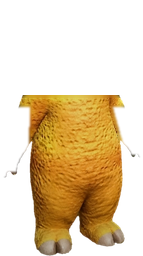
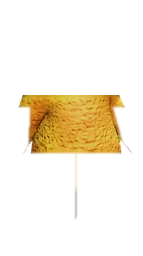
feat(web): 桌宠走路迈步 + 拖拽挣扎/放下松气——拆出双腿图层
- 素材：胯中线竖切拆出左右腿图层（正面像双腿粘连，直接对半切，
  静止时像素一致无缝）；主体 inpaint 阈值收窄到 alpha<=32，
  羽化缝保留原始 RGB，消除接缝模糊线；抽帧校验加腿部 ±12°
- 走路：双腿交替迈步（绕髋枢轴旋转 + 抬腿）+ 双臂反相摆动
  （异侧手脚同步）+ 身体重心摇摆 + 头颠簸，步速放缓匹配迈步节拍
- 拖拽：拎起时四肢扑腾 + 头甩动 + 整体扭动挣扎（pet-struggle）；
  放下时播放松了一口气落地一瘫再恢复的 WAAPI 动画
- Playwright 实测：拖拽中 7 个挣扎动画并跑，放下恰好 1 次 relief

diff --git a/apps/web/src/components/pet/pet.css b/apps/web/src/components/pet/pet.css
@@ -229,11 +229,25 @@
   55% { transform: rotate(7deg) translateY(3%); }
 }
 
-/* 走动（外壳 .pet-walking）：双臂反相摆动 + 头颠簸 + 身体前倾 */
+/* 走动（外壳 .pet-walking）：双腿交替迈步 + 双臂反相摆动（异侧手脚同步的自然步态）
+   + 头颠簸 + 身体重心摇摆 */
+.pet-walking .niulai .n-leg-l { animation: n-leg-step 0.5s ease-in-out -0.25s infinite; }
+.pet-walking .niulai .n-leg-r { animation: n-leg-step 0.5s ease-in-out infinite; }
 .pet-walking .niulai .n-arm-l { animation: n-arm-swing 0.5s ease-in-out infinite; }
 .pet-walking .niulai .n-arm-r { animation: n-arm-swing 0.5s ease-in-out -0.25s infinite; }
 .pet-walking .niulai .n-head { animation: n-walk-head 0.5s ease-in-out infinite; }
-.pet-walking .niulai .n-body { transform: rotate(1.5deg); transform-origin: 50% 100%; }
+.pet-walking .niulai .n-body {
+  transform-origin: 50% 100%;
+  animation: n-walk-body 0.5s ease-in-out infinite;
+}
+@keyframes n-leg-step {
+  0%, 100% { transform: rotate(9deg) translateY(-1.5%); }
+  50% { transform: rotate(-7deg); }
+}
+@keyframes n-walk-body {
+  0%, 100% { transform: rotate(-2deg); }
+  50% { transform: rotate(2deg); }
+}
 @keyframes n-arm-swing {
   0%, 100% { transform: rotate(13deg); }
   50% { transform: rotate(-13deg); }
@@ -241,6 +255,21 @@
 @keyframes n-walk-head {
   0%, 100% { transform: rotate(0deg) translateY(0); }
   50% { transform: rotate(1.5deg) translateY(-1.5%); }
+}
+
+/* 被拖拽拎起（外壳 .pet-dragging）：挣扎——四肢扑腾 + 头甩动 */
+.pet-dragging .niulai .n-leg-l { animation: n-kick 0.3s ease-in-out infinite; }
+.pet-dragging .niulai .n-leg-r { animation: n-kick 0.3s ease-in-out -0.15s infinite; }
+.pet-dragging .niulai .n-arm-l { animation: n-flail 0.3s ease-in-out infinite; }
+.pet-dragging .niulai .n-arm-r { animation: n-flail 0.3s ease-in-out -0.15s infinite; }
+.pet-dragging .niulai .n-head { animation: n-wobble 0.4s ease-in-out infinite; }
+@keyframes n-kick {
+  0%, 100% { transform: rotate(14deg) translateY(-2%); }
+  50% { transform: rotate(-11deg); }
+}
+@keyframes n-flail {
+  0%, 100% { transform: rotate(-22deg); }
+  50% { transform: rotate(14deg); }
 }
 
 /* 瞌睡（外壳 .pet-sleeping）：头低垂（盖过 idle 的头轻摆） */
@@ -319,12 +348,17 @@
   transition: transform 0.18s ease-out, filter 0.4s ease;
 }
 
-/* 拖拽中（DRAG 最高优先级）：轻轻拎起 */
+/* 拖拽中（DRAG 最高优先级）：拎起 + 扭动挣扎 */
 .pet-dragging .pet-stage {
-  transform: scale(1.06) rotate(2deg);
+  animation: pet-struggle 0.45s ease-in-out infinite;
+  transition: none;
+}
+@keyframes pet-struggle {
+  0%, 100% { transform: scale(1.05) rotate(3.5deg); }
+  50% { transform: scale(1.05) rotate(-3.5deg); }
 }
 
-/* 走动（WALK）：上下颠簸 + 左右摇摆；左走时立绘水平翻转 */
+/* 走动（WALK）：轻微起伏（迈步动作在腿部图层上）；左走时立绘水平翻转 */
 .pet-walking .pet-stage {
   animation: pet-walk-bob 0.5s ease-in-out infinite;
   transition: none;
@@ -333,12 +367,12 @@
   animation-name: pet-walk-bob-flip;
 }
 @keyframes pet-walk-bob {
-  0%, 100% { transform: translateY(0) rotate(-2.5deg); }
-  50% { transform: translateY(-5%) rotate(2.5deg); }
+  0%, 100% { transform: translateY(0) rotate(-1.5deg); }
+  50% { transform: translateY(-3%) rotate(1.5deg); }
 }
 @keyframes pet-walk-bob-flip {
-  0%, 100% { transform: scaleX(-1) translateY(0) rotate(-2.5deg); }
-  50% { transform: scaleX(-1) translateY(-5%) rotate(2.5deg); }
+  0%, 100% { transform: scaleX(-1) translateY(0) rotate(-1.5deg); }
+  50% { transform: scaleX(-1) translateY(-3%) rotate(1.5deg); }
 }
 
 /* 瞌睡（SLEEP：60s 无交互进入，点击唤醒）：低垂褪色 + Zzz */
@@ -372,7 +406,9 @@
 
 @media (prefers-reduced-motion: reduce) {
   .niulai-anim *, .niulai-anim .n-layer { animation: none !important; }
-  .pet-walking .niulai .n-layer { animation: none !important; }
+  .pet-walking .niulai .n-layer,
+  .pet-dragging .niulai .n-layer { animation: none !important; }
   .pet-walking .pet-stage { animation: none !important; }
+  .pet-dragging .pet-stage { animation: none !important; transform: scale(1.05); }
   .pet-zzz i { animation: none; opacity: 0.75; }
 }

diff --git a/apps/web/src/components/pet/NiulaiAvatar.tsx b/apps/web/src/components/pet/NiulaiAvatar.tsx
@@ -3,6 +3,8 @@ import armLUrl from './assets/niulai-armL.png'
 import armRUrl from './assets/niulai-armR.png'
 import bodyUrl from './assets/niulai-body.png'
 import headUrl from './assets/niulai-head.png'
+import legLUrl from './assets/niulai-legL.png'
+import legRUrl from './assets/niulai-legR.png'
 import { NIULAI_PUPPET } from './assets/niulai_puppet_meta'
 import type { PetState } from './PetAvatar'
 import { PET_STATE_LABEL } from './PetAvatar'
@@ -18,16 +20,17 @@ function pivotStyle(pivot: Pivot | null): React.CSSProperties {
 }
 
 /**
- * 牛来桌宠：分层木偶（身体/双臂/头四个透明图层叠加）+ CSS 程序化动画。
+ * 牛来桌宠：分层木偶（身体/双腿/双臂/头六个透明图层叠加）+ CSS 程序化动画。
  * 图层与枢轴由 scripts/build_pet_puppet.py 从整图立绘自动拆出；
- * 每层独立 transform（歪头、摆臂、垂臂），比整图晃动精细。神态语义与铅笔小猫一致：
+ * 每层独立 transform（歪头、摆臂、迈步），比整图晃动精细。神态语义与铅笔小猫一致：
  * - idle      呼吸 + 头轻摆 + 双臂微晃
  * - thinking  歪头 + 思绪气泡
  * - working   身体摇摆 + 双臂交替摆动 + 头点动
  * - confused  头部快速摇摆 + ?
  * - eureka    整体弹跳 + 头后仰 + 双臂举起 + 闪光
  * - sad       垂头 + 双臂下垂 + 褪色 + 泪滴
- * 走动时（外壳 .pet-walking）双臂反相摆动、头部颠簸；瞌睡时（.pet-sleeping）头低垂。
+ * 走动时（外壳 .pet-walking）双腿交替迈步、双臂反相摆动（异侧手脚同步的自然步态）；
+ * 拖拽时（.pet-dragging）四肢扑腾挣扎；瞌睡时（.pet-sleeping）头低垂。
  */
 export function NiulaiAvatar({
   state,
@@ -50,9 +53,11 @@ export function NiulaiAvatar({
       role="img"
       aria-label={`牛来桌宠：${PET_STATE_LABEL[state]}`}
     >
-      {/* key=state：换神态重挂，动画从头播放。叠层顺序：身体 → 双臂 → 头 */}
+      {/* key=state：换神态重挂，动画从头播放。叠层顺序：身体 → 双腿 → 双臂 → 头 */}
       <span key={state} className="n-rig">
         <img className="n-layer n-body" src={bodyUrl} {...layerProps} />
+        <img className="n-layer n-leg-l" src={legLUrl} style={pivotStyle(NIULAI_PUPPET.legL)} {...layerProps} />
+        <img className="n-layer n-leg-r" src={legRUrl} style={pivotStyle(NIULAI_PUPPET.legR)} {...layerProps} />
         {NIULAI_PUPPET.armL && (
           <img className="n-layer n-arm-l" src={armLUrl} style={pivotStyle(NIULAI_PUPPET.armL)} {...layerProps} />
         )}

diff --git a/apps/web/src/components/pet/PetFloat.tsx b/apps/web/src/components/pet/PetFloat.tsx
@@ -187,6 +187,23 @@ function PetFloatShell({ state }: { state: PetState }): React.ReactElement {
     }, DOUBLE_CLICK_MS)
   }
 
+  // 拖拽放下（真的移动了位置）：松了一口气——落地一瘫再缓缓恢复
+  const playRelief = (): void => {
+    if (window.matchMedia('(prefers-reduced-motion: reduce)').matches) return
+    const el = rootRef.current?.firstElementChild
+    if (!el) return
+    el.animate(
+      [
+        { transform: 'scale(1, 1) translateY(0)' },
+        { transform: 'scale(1.08, 0.88) translateY(2%)', offset: 0.22 },
+        { transform: 'scale(0.96, 1.04) translateY(-1%)', offset: 0.48 },
+        { transform: 'scale(1.02, 0.98)', offset: 0.72 },
+        { transform: 'scale(1, 1) translateY(0)' },
+      ],
+      { duration: 750, easing: 'ease-out' },
+    )
+  }
+
   const stopWalk = React.useCallback((): void => {
     if (walkRafRef.current !== null) {
       cancelAnimationFrame(walkRafRef.current)
@@ -225,7 +242,7 @@ function PetFloatShell({ state }: { state: PetState }): React.ReactElement {
     // pos 可能还是 null（CSS right/bottom 锚定）：先换算成数值坐标，视觉上原地不动
     setPos(base)
     setWalkDir(dist < 0 ? 'left' : 'right')
-    const duration = Math.abs(dist) * 22
+    const duration = Math.abs(dist) * 30  // 步速匹配 0.5s 迈步节拍，快了会像飘着滑
     const t0 = performance.now()
     const tick = (now: number): void => {
       if (walkRafRef.current === null) return
@@ -317,6 +334,7 @@ function PetFloatShell({ state }: { state: PetState }): React.ReactElement {
       onPetClick()
       return
     }
+    playRelief()  // 拖拽后放下：松了一口气
     setPos((current) => {
       if (current) persistPos(current)
       return current

diff --git a/apps/web/src/components/pet/assets/niulai_puppet_meta.ts b/apps/web/src/components/pet/assets/niulai_puppet_meta.ts
@@ -5,4 +5,6 @@ export const NIULAI_PUPPET = {
   head: { originX: 49.7, originY: 36.7 },
   armL: { originX: 21.0, originY: 41.8 },
   armR: { originX: 79.0, originY: 41.8 },
+  legL: { originX: 38.0, originY: 59.8 },
+  legR: { originX: 62.0, originY: 59.8 },
 } as const

diff --git a/scripts/build_pet_puppet.py b/scripts/build_pet_puppet.py
@@ -37,6 +37,8 @@ NECK_Y_FRAC = 0.37  # 头/颈横切位置（图高比例）：颌底与肩膀之
 SHOULDER_Y_FRAC = 0.42  # 肩部枢轴高度
 ARM_PIVOT_X_FRAC = 0.21  # 肩枢轴距同侧轮廓的水平位置（图宽比例，左臂用，右臂镜像）
 MIN_GAP_ROWS = 10  # 缝隙行少于此值放弃拆臂（手臂贴身，留在身体上）
+LEG_HIP_Y_FRAC = 0.60  # 腿/躯干横切位置（胯部）
+LEG_PIVOT_X_FRAC = {"legL": 0.38, "legR": 0.62}  # 髋部枢轴（图宽比例）
 
 
 # ---------------------------------------------------------------- 抠图
@@ -182,9 +184,31 @@ def split_arm(
     return np.dstack([rgb, arm_a]), new_body_a, (px, float(py))
 
 
+def split_leg(
+    rgb: np.ndarray, alpha: np.ndarray, body_a: np.ndarray, key: str, crotch_x: int
+) -> tuple[np.ndarray, np.ndarray, tuple[float, float]]:
+    """胯中线竖切 + 胯线横切拆出一条腿（正面直立像双腿粘连，直接对半竖切，
+    静止时两层像素完全一致，切缝不可见）。返回 (leg_rgba, body_alpha, pivot)。"""
+    h, w = alpha.shape
+    y0 = int(h * LEG_HIP_Y_FRAC)
+    mask = np.zeros((h, w), np.uint8)
+    if key == "legL":
+        mask[y0:, :crotch_x] = 255
+    else:
+        mask[y0:, crotch_x:] = 255
+    mask = cv2.GaussianBlur(mask, (5, 5), 0)  # 切边羽化
+
+    leg_a = (alpha.astype(np.float64) * (mask.astype(np.float64) / 255)).astype(np.uint8)
+    new_body_a = (body_a.astype(np.float64) * (1 - mask.astype(np.float64) / 255)).astype(np.uint8)
+    pivot = (w * LEG_PIVOT_X_FRAC[key], float(y0))
+    return np.dstack([rgb, leg_a]), new_body_a, pivot
+
+
 def inpaint_body(rgb: np.ndarray, body_a: np.ndarray, orig_alpha: np.ndarray) -> np.ndarray:
-    """把身体被切掉的头/臂区域 RGB 用周围纹理补上（部件摆开时露出的躯干不穿帮）。"""
-    hole = ((orig_alpha > ALPHA_THR) & (body_a <= ALPHA_THR)).astype(np.uint8) * 255
+    """把身体被切掉的头/臂/腿区域 RGB 用周围纹理补上（部件摆开时露出的躯干不穿帮）。
+    只对身体 alpha 基本掉光的区域动刀——羽化缝上的半透明带保留原始 RGB，
+    否则接缝处会显出一条模糊线。"""
+    hole = ((orig_alpha > ALPHA_THR) & (body_a <= 32)).astype(np.uint8) * 255
     if hole.sum() == 0:
         return rgb
     hole = cv2.dilate(hole, np.ones((7, 7), np.uint8), iterations=1)
@@ -239,6 +263,20 @@ def main() -> None:
         pivots[key] = pivot
         print(f"{key}: 缝隙行 {len(gaps)}，pivot=({pivot[0]:.0f},{pivot[1]:.0f})")
 
+    # 拆腿：胯线高度取躯干实体段中点作为胯中线
+    hip_y = int(h * LEG_HIP_Y_FRAC)
+    hip_runs = row_runs(alpha[hip_y])
+    if hip_runs:
+        trunk = max(hip_runs, key=lambda r: r[1] - r[0])
+        crotch_x = (trunk[0] + trunk[1]) // 2
+        for key in ("legL", "legR"):
+            leg_rgba, body_a, pivot = split_leg(rgb, alpha, body_a, key, crotch_x)
+            layers[key] = leg_rgba
+            pivots[key] = pivot
+        print(f"legs: crotch x={crotch_x}, hip y={hip_y}")
+    else:
+        print("legs: 胯部行无实体段，放弃拆腿")
+
     body_rgba = np.dstack([inpaint_body(rgb, body_a, alpha), body_a])
 
     Image.fromarray(body_rgba, "RGBA").save(OUT_DIR / "niulai-body.png")
@@ -246,7 +284,14 @@ def main() -> None:
         Image.fromarray(layer, "RGBA").save(OUT_DIR / f"niulai-{key}.png")
     img.save(OUT_DIR / "niulai.png")  # 整图保留（兜底 / 静态展示）
 
-    order = [body_rgba, layers.get("armL"), layers.get("armR"), layers["head"]]
+    order = [
+        body_rgba,
+        layers.get("legL"),
+        layers.get("legR"),
+        layers.get("armL"),
+        layers.get("armR"),
+        layers["head"],
+    ]
     stack = [layer for layer in order if layer is not None]
     check_dir = ROOT / "tmp_puppet_check"
     check_dir.mkdir(exist_ok=True)
@@ -254,7 +299,13 @@ def main() -> None:
 
     # 抽帧校验：各层绕枢轴旋转后拼合，肉眼检查接缝/枢轴（角度取 CSS 动画的极值）
     frames = [composite(stack)]
-    for key, degs in (("head", (-10, 10)), ("armL", (-28, 28)), ("armR", (-28, 28))):
+    for key, degs in (
+        ("head", (-10, 10)),
+        ("armL", (-28, 28)),
+        ("armR", (-28, 28)),
+        ("legL", (-12, 12)),
+        ("legR", (-12, 12)),
+    ):
         if key not in layers:
             continue
         for deg in degs:
@@ -277,7 +328,7 @@ def main() -> None:
         "export const NIULAI_PUPPET = {",
         f"  aspect: {round(w / h, 4)},",
     ]
-    for key in ("head", "armL", "armR"):
+    for key in ("head", "armL", "armR", "legL", "legR"):
         if key in pivots:
             x, y = pct(pivots[key])
             meta_lines.append(f"  {key}: {{ originX: {x}, originY: {y} }},")

diff --git a/docs/桌宠开发.md b/docs/桌宠开发.md
@@ -5,17 +5,19 @@
 > 实际落地为 **Web 内桌宠**（`apps/web/src/components/pet/`）：
 >
 > - 形象：铅笔小猫（程序化 SVG，`PetAvatar`）+ 牛来（原图抠图后拆成
->   身体/双臂/头**分层木偶**——`assets/niulai-{body,armL,armR,head}.png` +
->   枢轴元数据 `niulai_puppet_meta.ts`，每层独立 CSS transform：歪头、摆臂、
->   垂臂、走路反相摆臂，比整图晃动精细；`NiulaiAvatar`），`PetCharacter`
+>   身体/双腿/双臂/头**分层木偶**——`assets/niulai-{body,legL,legR,armL,armR,head}.png`
+>   + 枢轴元数据 `niulai_puppet_meta.ts`，每层独立 CSS transform：歪头、摆臂、
+>   迈步，比整图晃动精细；`NiulaiAvatar`），`PetCharacter`
 >   按 `petSkinAtom` 统一分发；素材由 `scripts/build_pet_puppet.py` 一次性生成
->   （u2net 抠图 → 颈部横切拆头 → 沿手臂-躯干缝隙拆臂 → 主体 inpaint 补洞）。
+>   （u2net 抠图 → 颈部横切拆头 → 沿手臂-躯干缝隙拆臂 → 胯中线竖切拆腿 →
+>   主体 inpaint 补洞）。
 > - 状态机：沿用前端既有 `PetState`（idle/thinking/working/confused/eureka/sad），
 >   由 chat/agent 运行状态推导（`petState.ts`），语义与本文 §4 的任务态对应。
-> - 交互（`PetFloat`）：拖拽移动（位置持久化 localStorage，拖拽中轻微拎起姿态）；
->   单击 = 雀跃反应、双击 = 更激动的一次性连跳反应（F-03，WAAPI 播放，连点不丢帧）；
->   待机自主行为（F-06）：每 5s 掷随机行为——随机方向来回走动（立绘朝向翻转 +
->   颠簸步态，clamp 在容器内）、60s 无交互进入瞌睡（低垂 + Zzz，点击唤醒）。
+> - 交互（`PetFloat`）：拖拽移动（位置持久化 localStorage；拖拽中四肢扑腾**挣扎**，
+>   放下时播放"松了一口气"落地动画）；单击 = 雀跃反应、双击 = 更激动的一次性
+>   连跳反应（F-03，WAAPI 播放，连点不丢帧）；待机自主行为（F-06）：每 5s 掷
+>   随机行为——随机方向来回走动（双腿交替迈步 + 异侧手脚同步摆臂 + 朝向翻转，
+>   clamp 在容器内）、60s 无交互进入瞌睡（低垂 + Zzz，点击唤醒）。
 >   任务活动 / 拖拽 / reduced-motion 时自主行为自动暂停。
 > - 管理面板：顶栏 `PetSettingsButton` 弹出层——显示开关、形象选择、大小滑杆、
 >   待机微动效 / 任务动画开关、六状态预览（含触发时机说明），全部
